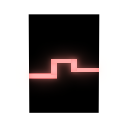
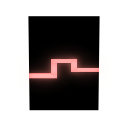
feat:Terorist sabo button img

Changed region(s): [[0.2188, 0.5625, 0.7812, 0.9062], [0.2188, 0.0938, 0.7812, 0.375]]

diff --git a/ExtremeRoles/Roles/Solo/Impostor/Terorist.cs b/ExtremeRoles/Roles/Solo/Impostor/Terorist.cs
@@ -1,11 +1,12 @@
-using ExtremeRoles.Module;
+using ExtremeRoles.Helper;
+using ExtremeRoles.Module;
 using ExtremeRoles.Roles.API;
 using ExtremeRoles.Roles.API.Interface;
 using ExtremeRoles.Performance;
 using ExtremeRoles.Module.SystemType.Roles;
 using ExtremeRoles.Module.SystemType;
 using ExtremeRoles.Extension.Il2Cpp;
-using ExtremeRoles.Helper;
+using ExtremeRoles.Resources;
 
 #nullable enable
 
@@ -41,7 +42,8 @@ public sealed class Terorist : SingleRoleBase, IRoleAbility
     {
         this.CreateAbilityCountButton(
 			Translation.GetString("TeroristBombSet"),
-			FastDestroyableSingleton<HudManager>.Instance.SabotageButton.graphic.sprite);
+			Loader.CreateSpriteFromResources(
+			   Path.TeroristTeroSabotageButton));
     }
 
     public bool IsAbilityUse()

diff --git a/ExtremeRoles/Resources/Loader.cs b/ExtremeRoles/Resources/Loader.cs
@@ -109,6 +109,7 @@ public static class Path
 	public const string TeroristTeroMinigameAsset = "ExtremeRoles.Resources.Asset.teroristminigame.asset";
 	public const string TeroristTeroMinigamePrefab = "assets/roles/teroristminigame.prefab";
 	public const string TeroristTeroSabotageBomb = "ExtremeRoles.Resources.TeroristoBomb.png";
+	public const string TeroristTeroSabotageButton = "ExtremeRoles.Resources.TeroristoBombImg.png";
 
 	public const string VigilanteEmergencyCall =
         "ExtremeRoles.Resources.EmergencyCall.png";
